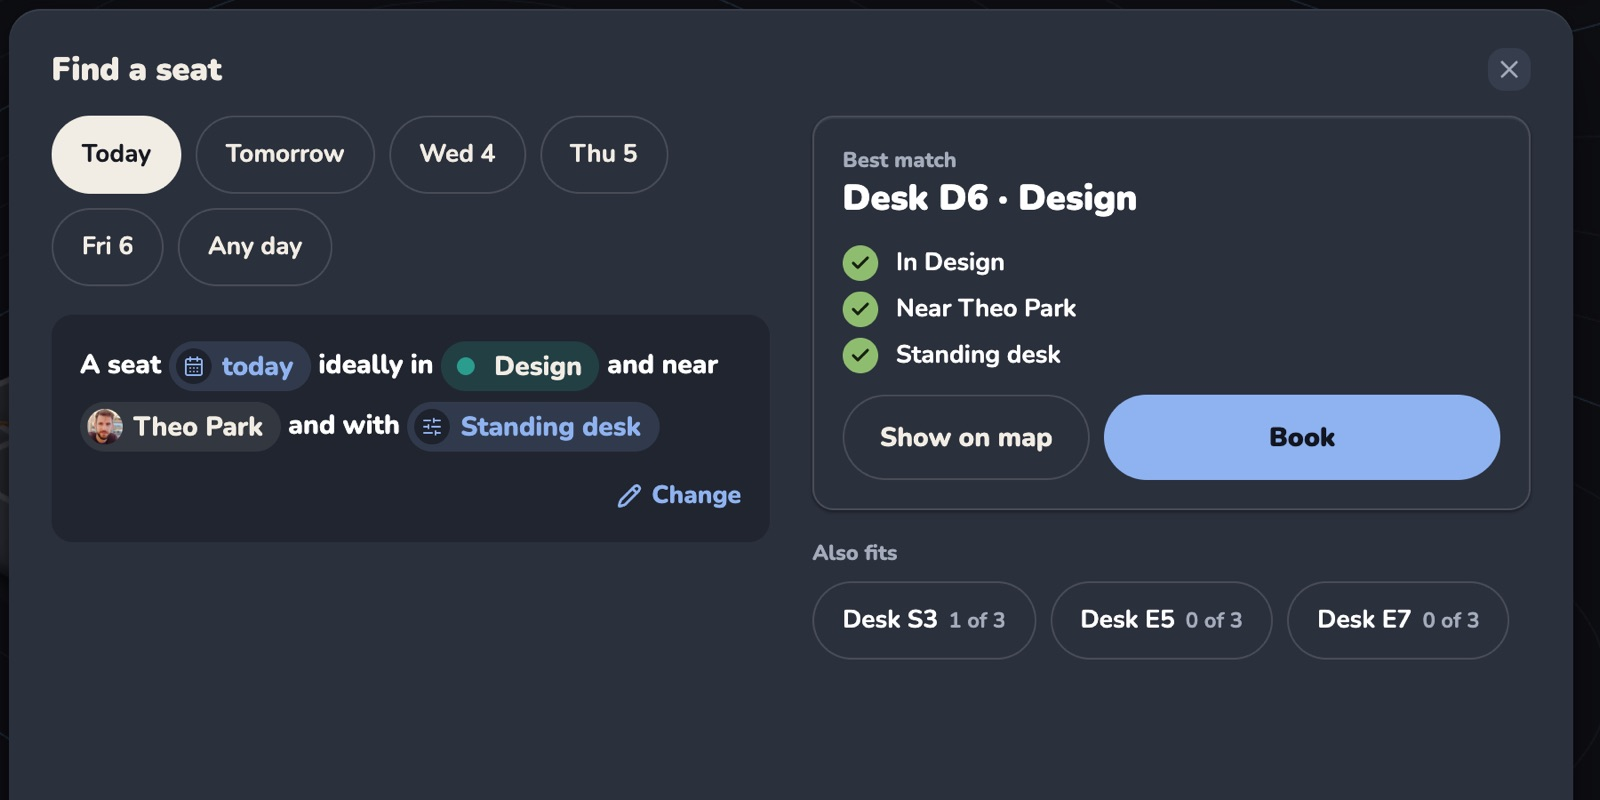
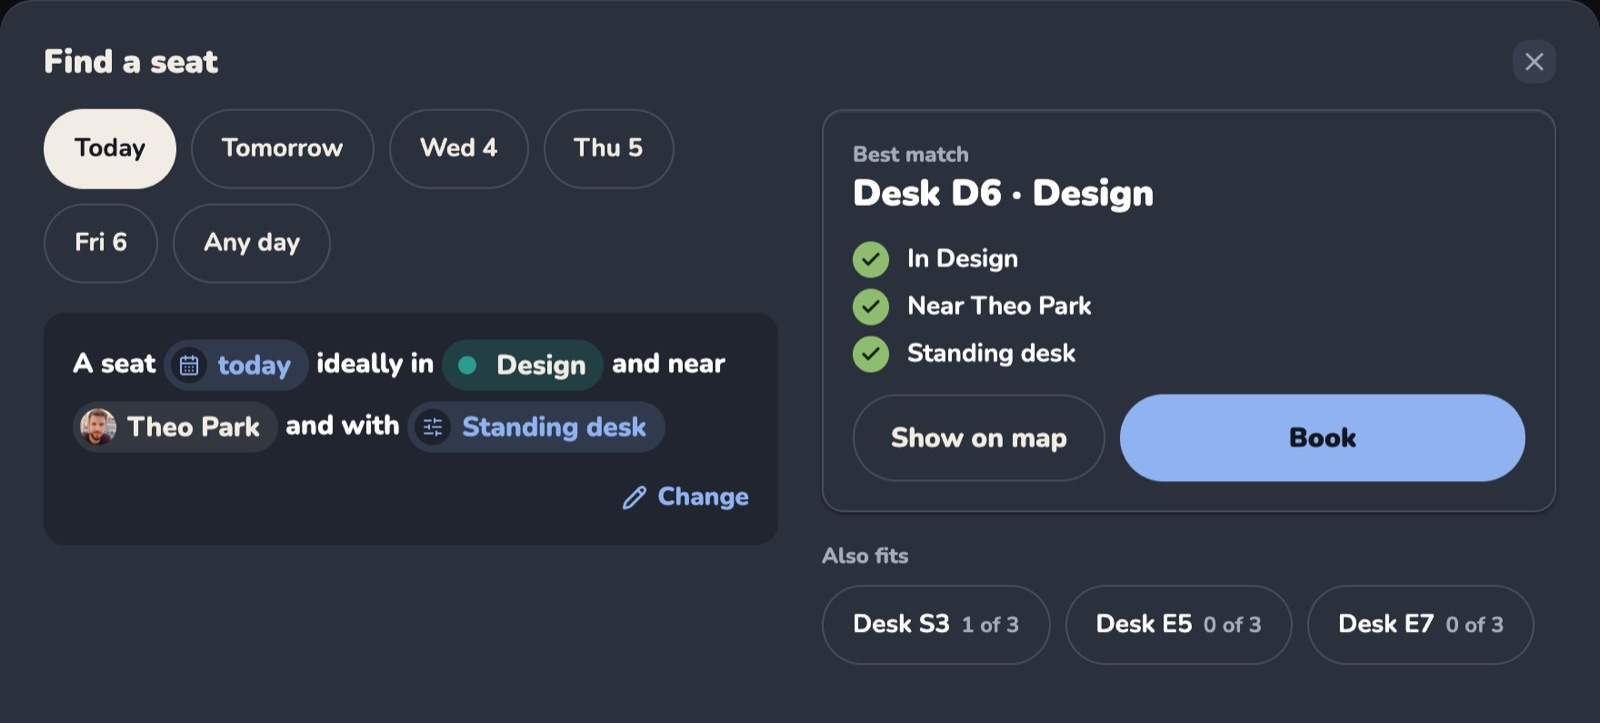
fix(product): panel screenshots cut at the panel's own edge, no frame
Find a seat, Who's in and insights are shot to the dialog's edge (no app
background around them); the page drops its ring and rounds them like the panel.

diff --git a/app/components/product/ProductPage.tsx b/app/components/product/ProductPage.tsx
@@ -144,6 +144,7 @@ export const ProductPage = () => {
             picture={
               <Picture
                 src={PICTURES.findSeat}
+                isPanel
                 alt={t(
                   "Find a seat: “A seat today, ideally in Design, near Theo Park, with a standing desk”, and the best match, desk D6"
                 )}
@@ -159,6 +160,7 @@ export const ProductPage = () => {
             picture={
               <Picture
                 src={PICTURES.whosIn}
+                isPanel
                 alt={t("Who's in today, each person with their desk and their week")}
                 className="mx-auto max-w-sm"
               />
@@ -188,6 +190,7 @@ export const ProductPage = () => {
             picture={
               <Picture
                 src={PICTURES.insights}
+                isPanel
                 alt={t(
                   "Insights: 67% full, Wednesday the busiest day, desks in use per week and a heatmap of every working day"
                 )}
@@ -347,16 +350,20 @@ const Picture = ({
   alt,
   className,
   isEager = false,
+  isPanel = false,
 }: {
   src: string
   alt: string
   className?: string
   /** The first picture on the page: loaded at once, not when scrolled to. */
   isEager?: boolean
+  /** One of the app's panels, cut at its own edge: its corners, not the page's. */
+  isPanel?: boolean
 }) => (
   <div
     className={clsx(
-      "w-full overflow-hidden rounded-[calc(var(--radius)*4)] bg-[#1f2330] shadow-overlay ring-1 ring-foreground/10",
+      "w-full overflow-hidden shadow-overlay",
+      isPanel ? "rounded-2xl" : "rounded-[calc(var(--radius)*4)]",
       className
     )}
   >
